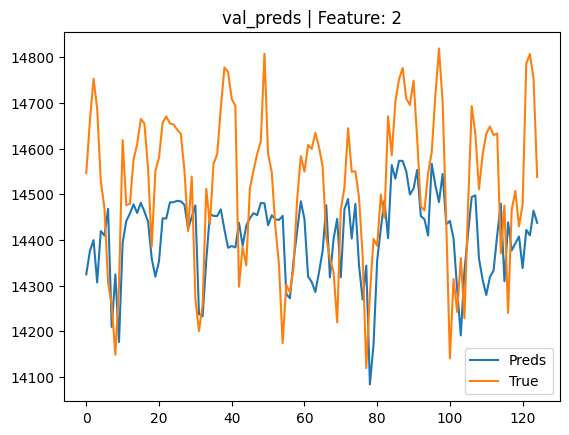
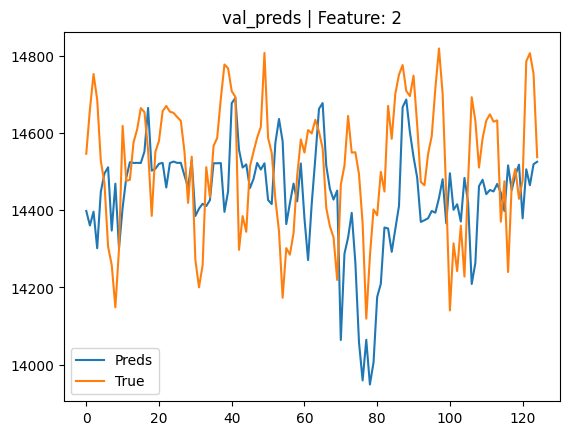
Added lstm-based encoder-decoder for reconstruction

diff --git a/train.py b/train.py
@@ -17,7 +17,7 @@ def evaluate(model, loader, criterion):
 	losses = []
 	with torch.no_grad():
 		for x, y in loader:
-			y_hat = model(x)
+			y_hat, recons = model(x)
 			if y_hat.ndim == 3:
 				y_hat = y_hat.squeeze(1)
 			if y.ndim == 3:
@@ -36,7 +36,7 @@ def predict(model, loader, scaler, target_col=None, dataset='hpc', plot_name='')
 	true_y = []
 	with torch.no_grad():
 		for x, y in loader:
-			y_hat = model(x)
+			y_hat, recons = model(x)
 			preds.extend(y_hat.detach().cpu().numpy().squeeze())
 			true_y.extend(y.detach().cpu().squeeze().numpy())
 
@@ -83,16 +83,16 @@ if __name__ == '__main__':
 	# Model params
 	parser.add_argument('--kernel_size', type=int, default=7)
 	parser.add_argument('--gru_layers', type=int, default=1)
-	parser.add_argument('--gru_hid_dim', type=int, default=64)
+	parser.add_argument('--gru_hid_dim', type=int, default=8)
 	parser.add_argument('--fc_layers', type=int, default=1)
-	parser.add_argument('--fc_hid_dim', type=int, default=32)
+	parser.add_argument('--fc_hid_dim', type=int, default=8)
 
 	# Train params
 	parser.add_argument('--test_size', type=float, default=0.2)
 	parser.add_argument('--epochs', type=int, default=30)
 	parser.add_argument('--bs', type=int, default=64)
 	parser.add_argument('--lr', type=int, default=1e-4)
-	parser.add_argument('--dropout', type=float, default=0.0)
+	parser.add_argument('--dropout', type=float, default=0.3)
 	parser.add_argument('--use_cuda', type=bool, default=True)
 	parser.add_argument('--model_path', type=str, default="./saved_models/")
 
@@ -168,12 +168,12 @@ if __name__ == '__main__':
 		batch_losses = []
 		for x, y in train_loader:
 			optimizer.zero_grad()
-			y_hat = model(x)
-			if y_hat.ndim == 3:
-				y_hat = y_hat.squeeze(1)
+			preds, recons = model(x)
+			if preds.ndim == 3:
+				preds = preds.squeeze(1)
 			if y.ndim == 3:
 				y = y.squeeze(1)
-			loss = torch.sqrt(criterion(y_hat, y))
+			loss = torch.sqrt(criterion(recons, x))
 			loss.backward()
 			optimizer.step()
 

diff --git a/modules.py b/modules.py
@@ -183,7 +183,7 @@ class GRU(nn.Module):
 		self.relu = nn.ReLU()
 		# self.hidden = None
 
-	def forward(self, x, h):
+	def forward(self, x):
 		h0 = torch.zeros(self.n_layers, x.shape[0], self.hid_dim).to(self.device)
 		out, h = self.gru(x, h0)
 		return out, h
@@ -193,7 +193,48 @@ class GRU(nn.Module):
 		# hidden = weight.new(self.n_layers, batch_size, self.hid_dim).zero_().to(self.device)
 		return torch.zeros(self.n_layers, batch_size, self.hid_dim).to(self.device)
 
+
+class Reconstruction_Model(nn.Module):
+	"""
+	Reconstruction Model using a GRU-based Encoder-Decoder
+	"""
+
+	def __init__(self, in_dim, enc_hid_dim, dec_hid_dim, out_dim, dropout, device='cpu'):
+		super(Reconstruction_Model, self).__init__()
+		self.dropout = dropout
+		self.device = device
+		self.enc_hid_dim = enc_hid_dim
+
+		self.encoder = nn.GRU(in_dim, enc_hid_dim, batch_first=True, dropout=dropout)
+		self.decoder = nn.GRU(in_dim, dec_hid_dim, batch_first=True, dropout=dropout)
+		self.fc = nn.Linear(dec_hid_dim, out_dim)
+		self.relu = nn.ReLU()
+		# self.hidden = None
+
+	def forward(self, x):
+		# x shape: (b, n, k)
+		h0 = torch.zeros(1, x.shape[0], self.enc_hid_dim).to(self.device)
+		_, enc_last_hid = self.encoder(x, h0)  # last hidden state, will be used as initial hidden state for decoder
+
+		if self.training:
+			# Reconstruct in reverse order
+			x_flip = torch.flip(x, [1])
+			dec_out, _ = self.decoder(x_flip, enc_last_hid)
+			x_flip_recon = self.fc(dec_out)
+
+		else:
+			x_flip_recon = torch.zeros_like(x)
+			for i in range(x.shape[1]):
+				dec_out, _ = self.decoder(x_flip_recon, enc_last_hid)
+				x_flip_recon[:, i, :] = self.fc(dec_out[:, i, :])
+
+		x_recon = torch.flip(x_flip_recon, [1])
+		return x_recon
+
 class Forecasting_Model(nn.Module):
+	"""
+	Forecasting model (fully-connected network)
+	"""
 	def __init__(self, in_dim, hid_dim, out_dim, n_layers, dropout, device='cpu'):
 		super(Forecasting_Model, self).__init__()
 

diff --git a/mtad_gat.py b/mtad_gat.py
@@ -1,7 +1,7 @@
 import torch
 import torch.nn as nn
 
-from modules import ConvLayer, FeatureAttentionLayer, TemporalAttentionLayer, GRU, Forecasting_Model
+from modules import ConvLayer, FeatureAttentionLayer, TemporalAttentionLayer, GRU, Forecasting_Model, Reconstruction_Model
 
 
 class MTAD_GAT(nn.Module):
@@ -20,23 +20,18 @@ class MTAD_GAT(nn.Module):
 		self.temporal_gat = TemporalAttentionLayer(num_nodes, window_size, dropout, alpha, device)
 		self.gru = GRU(num_nodes, gru_hid_dim, gru_n_layers, dropout, device)
 		self.forecasting_model = Forecasting_Model(gru_hid_dim, forecasting_hid_dim, out_dim*horizon, forecasting_n_layers, dropout, device)
-
-		self.gru_init_h = None
-
-	def set_gru_init_hidden(self, batch_size):
-		self.gru_init_h = self.gru.init_hidden(batch_size)
+		self.recon_model = Reconstruction_Model(num_nodes, 32, 32, num_nodes, dropout)
 
 	def forward(self, x):
 		# x shape (b, n, k): b - batch size, n - window size, k - number of nodes/features
-		#x = self.conv(x)
+		x = self.conv(x)
 		# print(x.shape)
 
-		#h_feat = self.feature_gat(x)
-		#h_temp = self.temporal_gat(x)
+		h_feat = self.feature_gat(x)
+		h_temp = self.temporal_gat(x)
 
-		#h_cat = torch.cat([x, h_feat.permute(0, 2, 1), h_temp], dim=1)
-		h_cat = x
-		gru_out, _ = self.gru(h_cat, self.gru_init_h)
+		h_cat = torch.cat([x, h_feat.permute(0, 2, 1), h_temp], dim=1)
+		gru_out, _ = self.gru(h_cat)
 
 		forecasting_in = gru_out[:, -1, :]  # Extracting output belonging to last timestamp
 
@@ -44,6 +39,7 @@ class MTAD_GAT(nn.Module):
 		predictions = self.forecasting_model(forecasting_in)
 
 		# TODO: Reconstruction model
+		recons = self.recon_model(x)
 
-		return predictions
+		return predictions, recons
 

diff --git a/train_baselines.py b/train_baselines.py
@@ -4,7 +4,7 @@ from argparse import ArgumentParser
 from sklearn.metrics import mean_squared_error
 import matplotlib.pyplot as plt
 from baselines import create_lstm, create_cnn
-from utils import process_gas_sensor_data, denormalize
+from utils import process_data, denormalize
 
 
 def predict(model, x, true_y, scaler):
@@ -52,7 +52,7 @@ if __name__ == '__main__':
 	parser.add_argument('--model', type=str, default='lstm', choices=['lstm', 'cnn'])
 	args = parser.parse_args()
 
-	data = process_gas_sensor_data(window_size, horizon)
+	data = process_data(window_size, horizon)
 	feature_names = data['feature_names']
 
 	print(feature_names)
